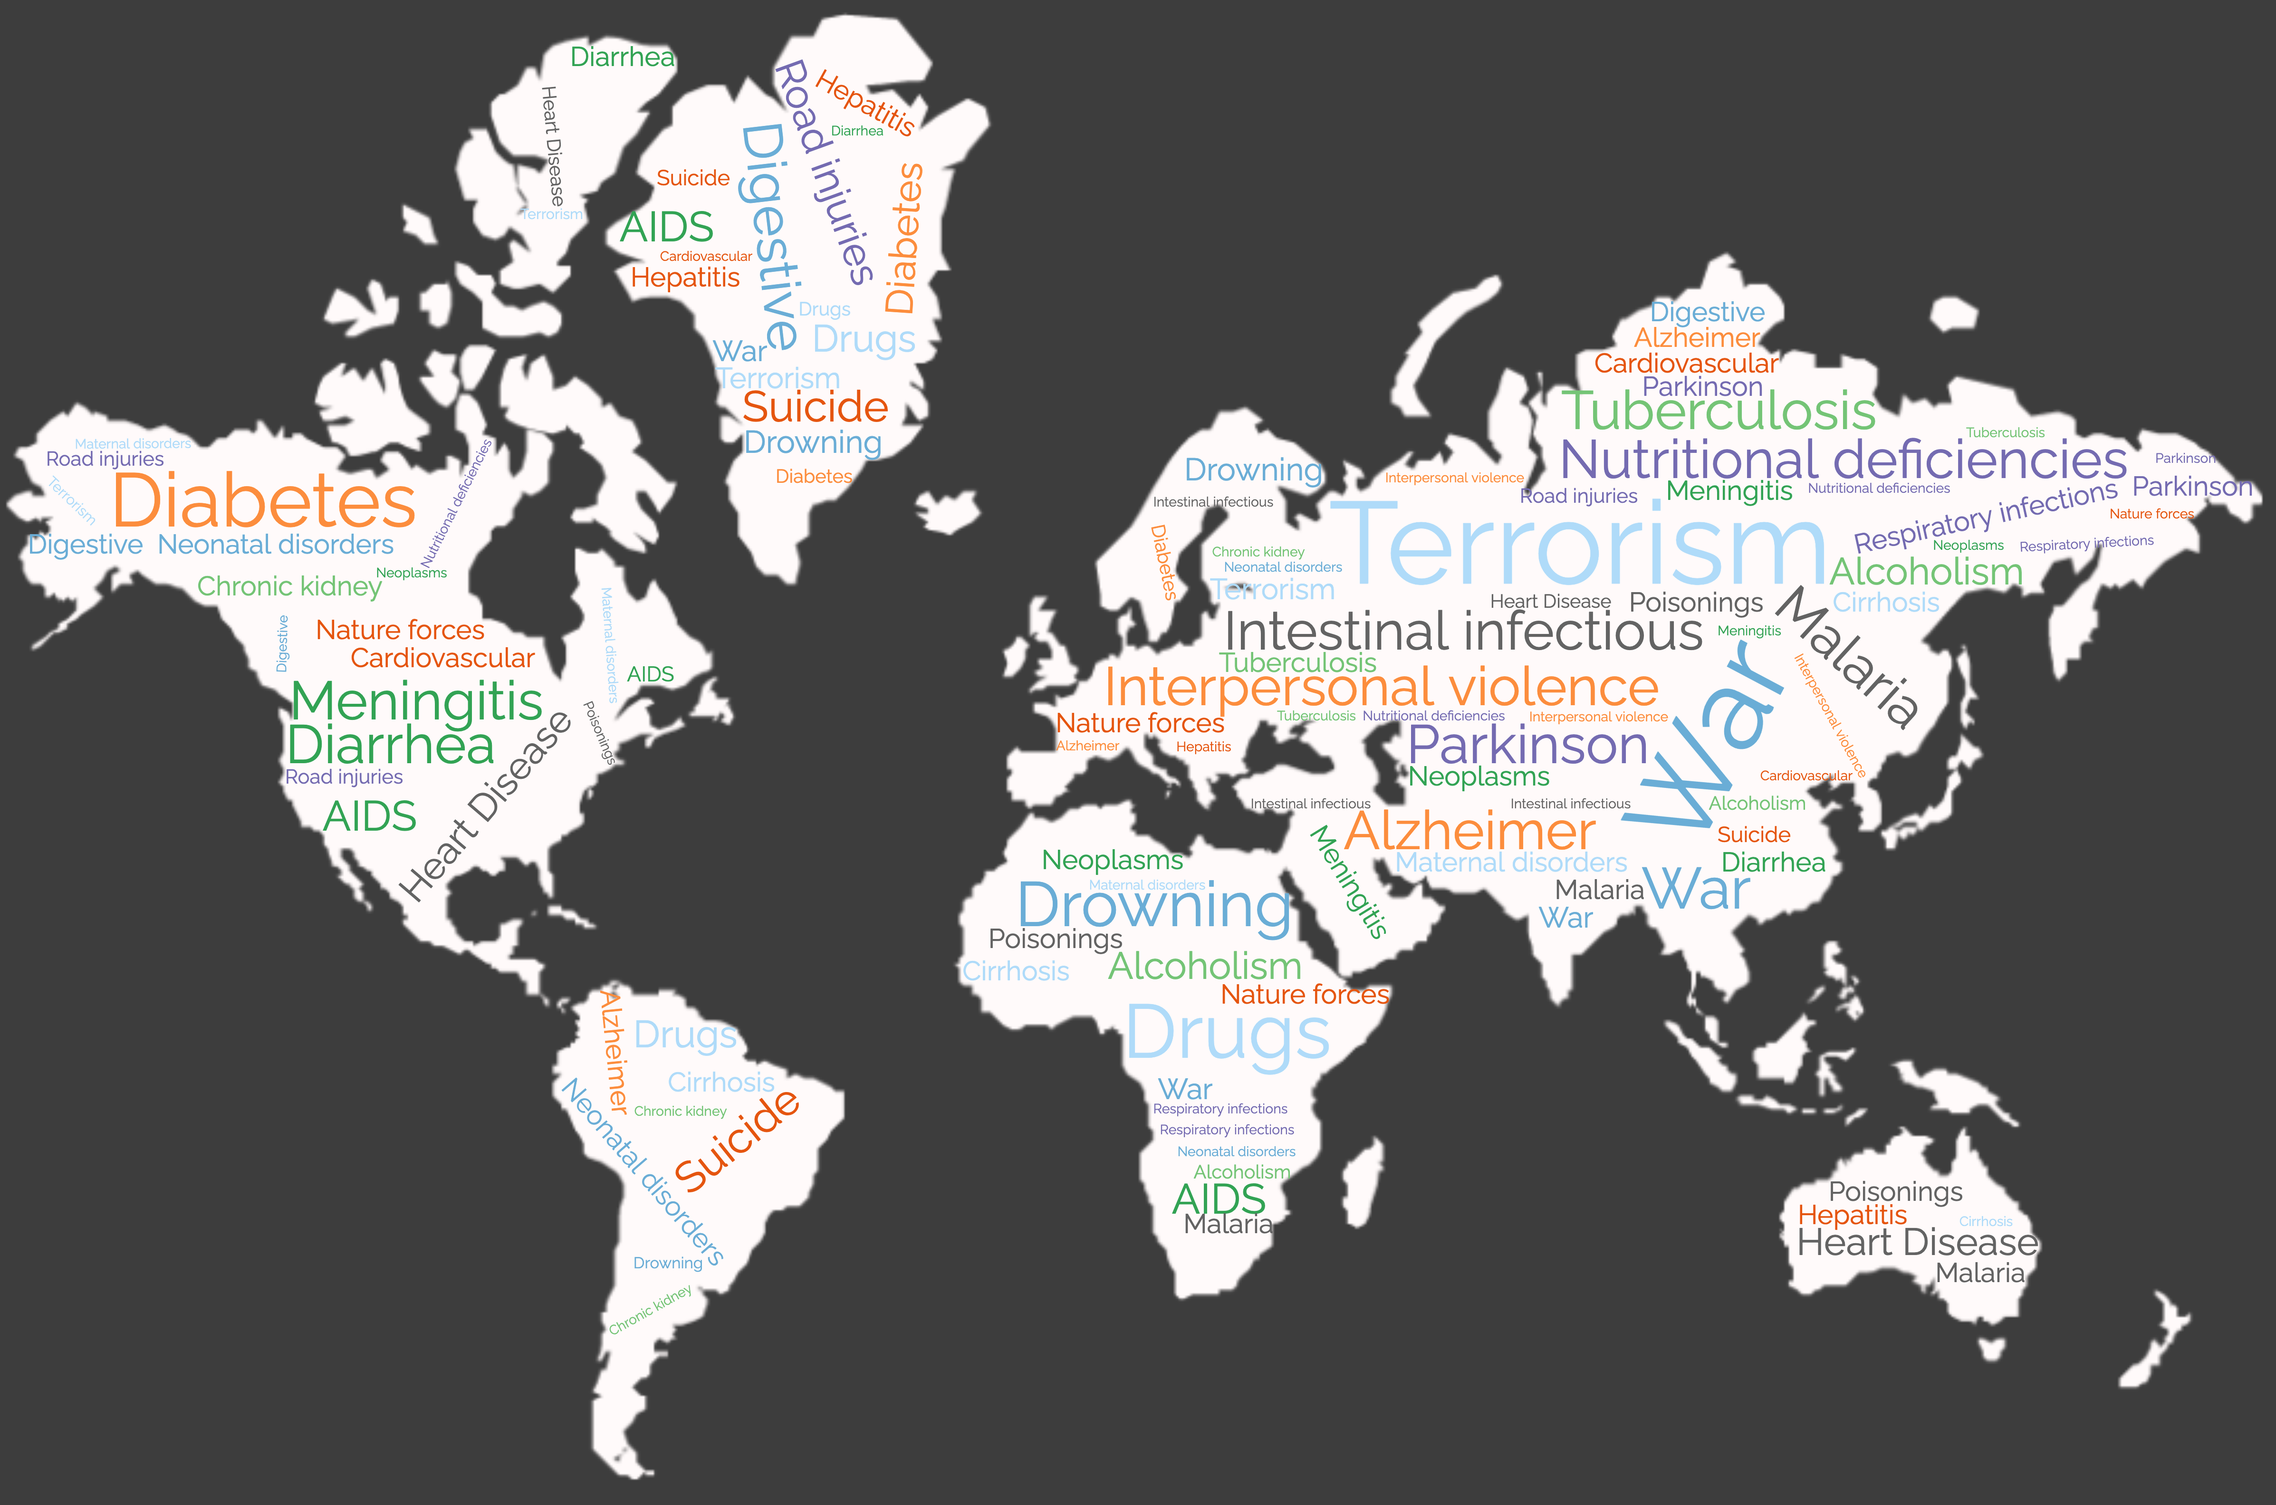
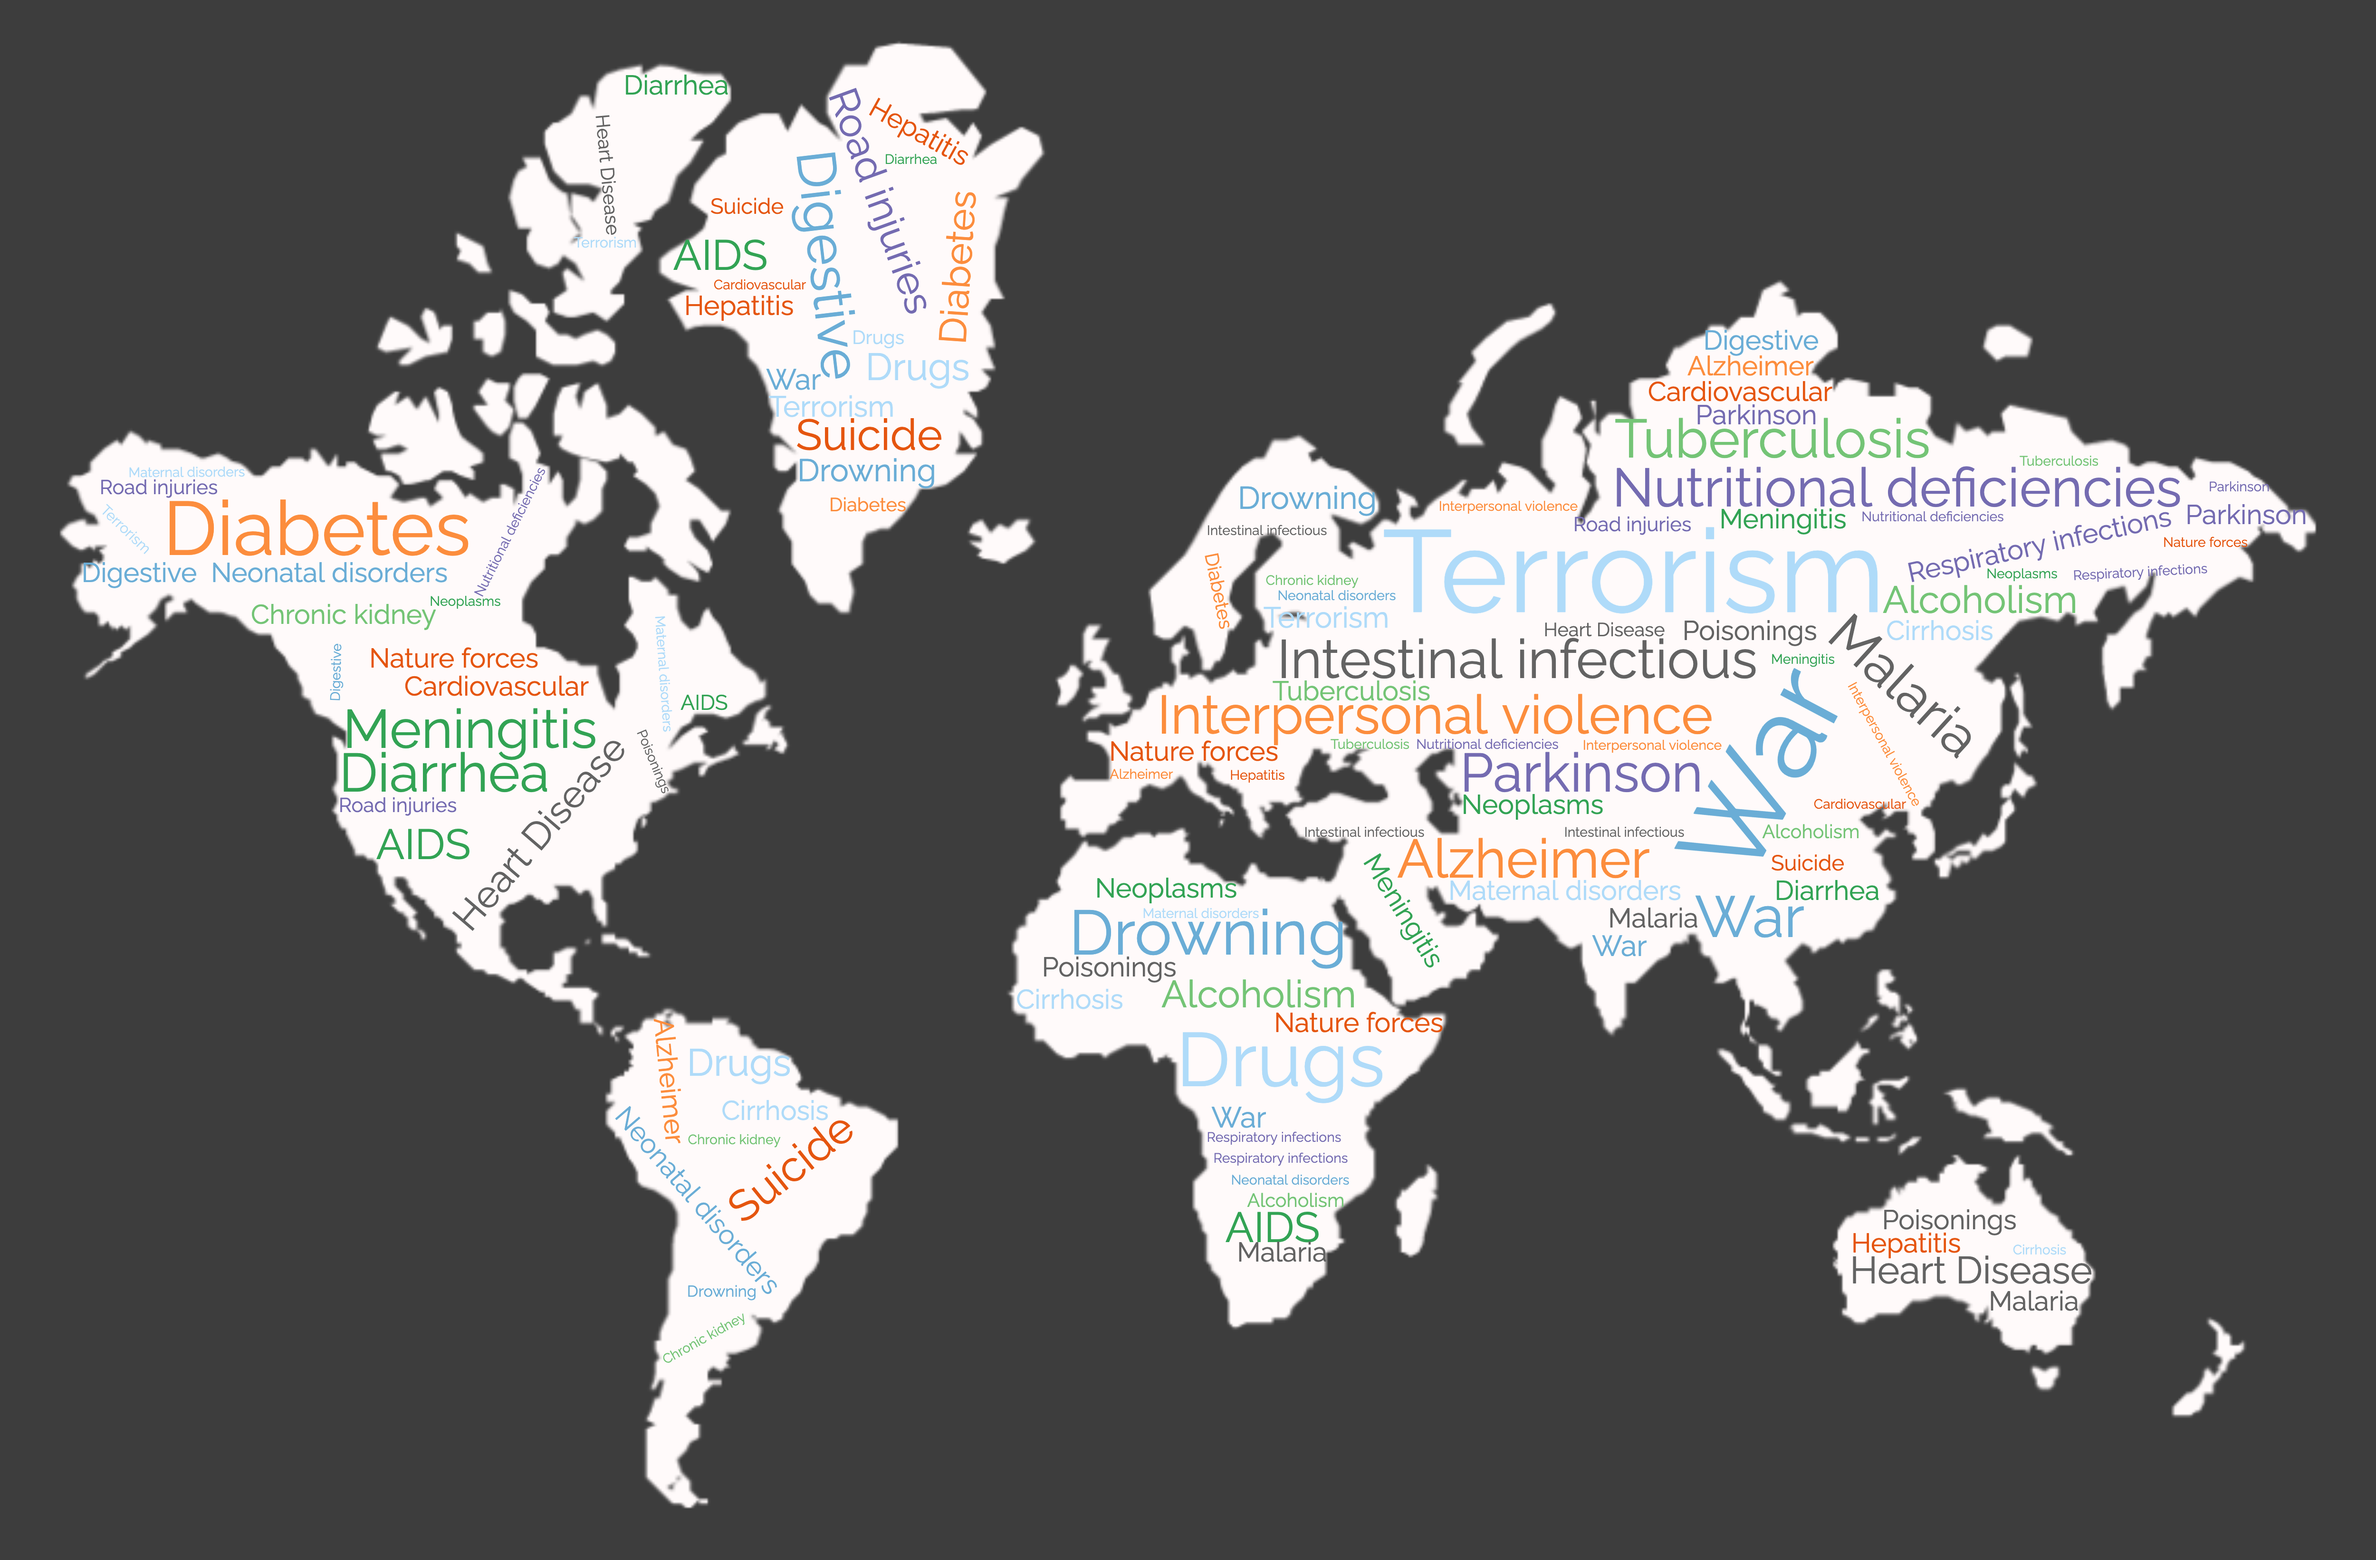
changed main picture + fixed active link in navbar

Changed region(s): [[0.4045, 0.1547, 0.9956, 0.9283], [0.0, 0.0, 0.4356, 0.9902]]

diff --git a/index.html b/index.html
@@ -19,7 +19,8 @@
 		    <div class="collapse navbar-collapse" id="navbarSupportedContent">
 		    	<ul class="navbar-nav">
 					<li class="nav-item">
-          				<a class="nav-link active" href="#section1" aria-current="page">What do we die of?</a>
+						<!-- TODO see for active link -->
+          				<a class="nav-link" href="#section1" aria-current="page">What do we die of?</a>
         			</li>
         			<li class="nav-item">
           				<a class="nav-link" href="#section2">Which death causes receive the most attention?</a>
